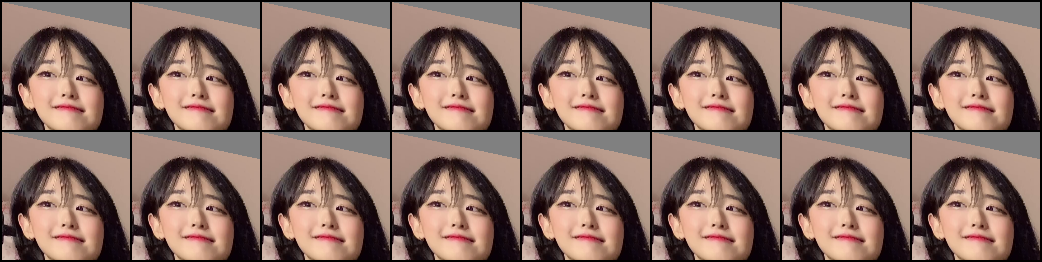
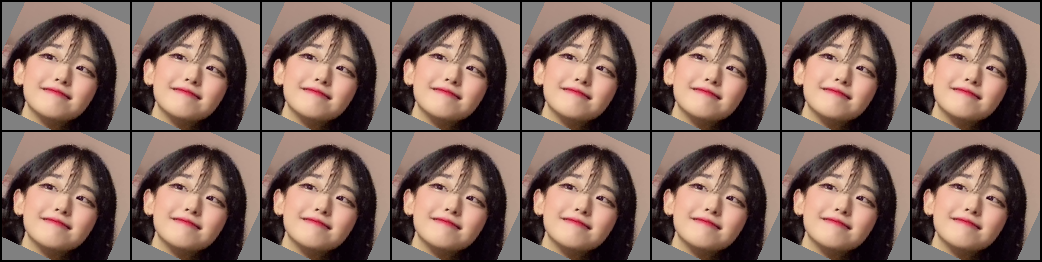
f

diff --git a/t.py b/t.py
@@ -106,42 +106,42 @@ img = torch.from_numpy(img).contiguous().to("cuda")
 # aa_params["interpolation"] = Image.BILINEAR
 # transform = rand_augment_transform("rand-m7-n4-mstd0.5-inc1", aa_params)
 
-import kornia.augmentation as KA
+# import kornia.augmentation as KA
 
 
-class GPUAugment:
-    def __init__(self, transforms):
-        self.transforms = transforms
+# class GPUAugment:
+#     def __init__(self, transforms):
+#         self.transforms = transforms
 
-    def __call__(self, x):
-        for op in self.transforms:
-            x = torch.stack([op(_) for _ in x])
-        return x
+#     def __call__(self, x):
+#         for op in self.transforms:
+#             x = torch.stack([op(_) for _ in x])
+#         return x
 
-gpu_transforms = GPUAugment([
-    KA.RandomAffine(30, translate=0.1, shear=0.3, p=1, padding_mode='reflection', same_on_batch=True),
-    KA.ColorJiggle(0.125, 0.5, 0.5, 0.1, p=1, same_on_batch=True),
-    # KA.RandomHorizontalFlip(p=0.5, same_on_batch=True),
-    # KE.Normalize(mean=mean / 255, std=std / 255),
-])
+# gpu_transforms = GPUAugment([
+#     KA.RandomAffine(30, translate=0.1, shear=0.3, p=1, padding_mode='reflection', same_on_batch=True),
+#     KA.ColorJiggle(0.125, 0.5, 0.5, 0.1, p=1, same_on_batch=True),
+#     # KA.RandomHorizontalFlip(p=0.5, same_on_batch=True),
+#     # KE.Normalize(mean=mean / 255, std=std / 255),
+# ])
 # transform = RandAugment(2, 7)
 
 
 
-# img = Image.open("000000.png")
-# buffer = [img for i in range(16)]
+img = Image.open("000000.png")
+buffer = [img for i in range(16)]
 # AugmentOp()
-img = repeat(img, "c h w -> b t c h w", b=4, t=8)
-# transform = create_random_augment(buffer[0].size, "rand-m7-n4-mstd0.5-inc1", "bilinear")
+# img = repeat(img, "c h w -> b t c h w", b=4, t=8)
+transform = create_random_augment(buffer[0].size, "rand-m8-n2-mstd0.5-inc1", "bilinear")
 # transform = create_random_augment(buffer[0].size, "rand-m7-n3-mstd0.5-inc1", "bilinear")
 # print(transform)
-# buffer = transform(img)
-buffer = gpu_transforms(img)
-print(buffer.size())
+buffer = transform(buffer)
+# buffer = gpu_transforms(img)
+# print(buffer.size())
 
-# buffer = [transforms.ToTensor()(img) for img in buffer]
-# buffer = torch.stack(buffer) # T C H W
-# save_image(buffer.cpu(), "samples/before_sample.png", nrow=8, normalize=False)
+buffer = [transforms.ToTensor()(img) for img in buffer]
+buffer = torch.stack(buffer) # T C H W
+save_image(buffer.cpu(), "samples/before_sample.png", nrow=8, normalize=False)
 # buffer = buffer.permute(0, 2, 3, 1) # T H W C
 # # T H W C
 # buffer = tensor_normalize(
@@ -149,24 +149,26 @@ print(buffer.size())
 # )
 # # T H W C -> C T H W.
 # buffer = buffer.permute(3, 0, 1, 2)
-# # Perform data augmentation.
-# scl, asp = (
-#     [0.8, 1.0],
-#     [0.75, 1.3333],
-# )
-# buffer = spatial_sampling(
-#     buffer,
-#     spatial_idx=-1,
-#     min_scale=-1,
-#     max_scale=-1,
-#     crop_size=224,
-#     random_horizontal_flip=True,
-#     inverse_uniform_sampling=False,
-#     aspect_ratio=asp,
-#     scale=scl,
-#     motion_shift=False
-# )
-
+# print(buffer.size())
+# Perform data augmentation.
+print(buffer.size())
+scl, asp = (
+    [0.8, 1.0],
+    [0.75, 1.3333],
+)
+buffer = spatial_sampling(
+    buffer,
+    spatial_idx=-1,
+    min_scale=-1,
+    max_scale=-1,
+    # crop_size=224,
+    crop_size=96,
+    random_horizontal_flip=True,
+    inverse_uniform_sampling=False,
+    aspect_ratio=asp,
+    scale=scl,
+    motion_shift=False
+)
 # if self.rand_erase:
 #     erase_transform = RandomErasing(
 #         args.reprob,
@@ -182,8 +184,14 @@ print(buffer.size())
 
 # buffer *= torch.tensor([0.229, 0.224, 0.225])[:, None, None, None]
 # buffer += torch.tensor([0.485, 0.456, 0.406])[:, None, None, None]
+print(buffer.size())
+save_image(buffer.cpu(), f"samples/sample.png", nrow=8, normalize=False)
+# for i in range(4):
+    # print(buffer[i].size())
+    # save_image(buffer[i].cpu(), f"samples/sample_{i}.png", nrow=8, normalize=False)
 
-for i in range(4):
-    print(buffer[i].size())
-    # save_image(buffer[i].permute(1, 0, 2, 3).cpu(), f"samples/sample_{i}.png", nrow=8, normalize=False)
-    save_image(buffer[i].cpu(), f"samples/sample_{i}.png", nrow=8, normalize=False)
+
+from torchvision.models import resnet50
+
+model = resnet50()
+print(model)

diff --git a/models/video_encoder.py b/models/video_encoder.py
@@ -21,6 +21,50 @@ from opts import cfg
 from util.misc import NestedTensor, is_main_process
 
 
+class LayerNorm(nn.Module):
+    """
+    LayerNorm that supports inputs of size B, C, T
+    """
+    def __init__(
+        self,
+        num_channels,
+        eps = 1e-5,
+        affine = True,
+        device = None,
+        dtype = None,
+    ):
+        super().__init__()
+        factory_kwargs = {'device': device, 'dtype': dtype}
+        self.num_channels = num_channels
+        self.eps = eps
+        self.affine = affine
+
+        if self.affine:
+            self.weight = nn.Parameter(
+                torch.ones([1, num_channels, 1], **factory_kwargs))
+            self.bias = nn.Parameter(
+                torch.zeros([1, num_channels, 1], **factory_kwargs))
+        else:
+            self.register_parameter('weight', None)
+            self.register_parameter('bias', None)
+
+    def forward(self, x):
+        assert x.dim() == 3
+        assert x.shape[1] == self.num_channels
+
+        # normalization along C channels
+        mu = torch.mean(x, dim=1, keepdim=True)
+        res_x = x - mu
+        sigma = torch.mean(res_x**2, dim=1, keepdim=True)
+        out = res_x / torch.sqrt(sigma + self.eps)
+
+        # apply weight and bias
+        if self.affine:
+            out *= self.weight
+            out += self.bias
+
+        return out
+
 def unfold(ip, kernel_size, stride):
     '''Expect NCTHW shaped tensor, extract sliding block for snippet-wise feature extraction'''
     # ip_ncts = rearrange(ip_ncthw, "n c t h w -> n c t (h w)")
@@ -50,11 +94,12 @@ class TunerBlock(nn.Module):
         self.out_channels = out_channels
 
         # Conv
+        self.norm = LayerNorm(in_channels)
         self.conv1 = nn.Conv1d(in_channels, middle_channels, kernel_size=kernel_size, padding=kernel_size//2)
         self.conv2 = nn.Conv1d(middle_channels, out_channels, kernel_size=kernel_size, padding=kernel_size//2)
 
     def forward(self, x):
-        return self.conv2(F.relu(self.conv1(x))) + x
+        return self.conv2(F.relu(self.conv1(self.norm(x)))) + x
 
 class Tuner(nn.Module):
     def __init__(self, base_channels, num_lvls, middle_channels=2048):
